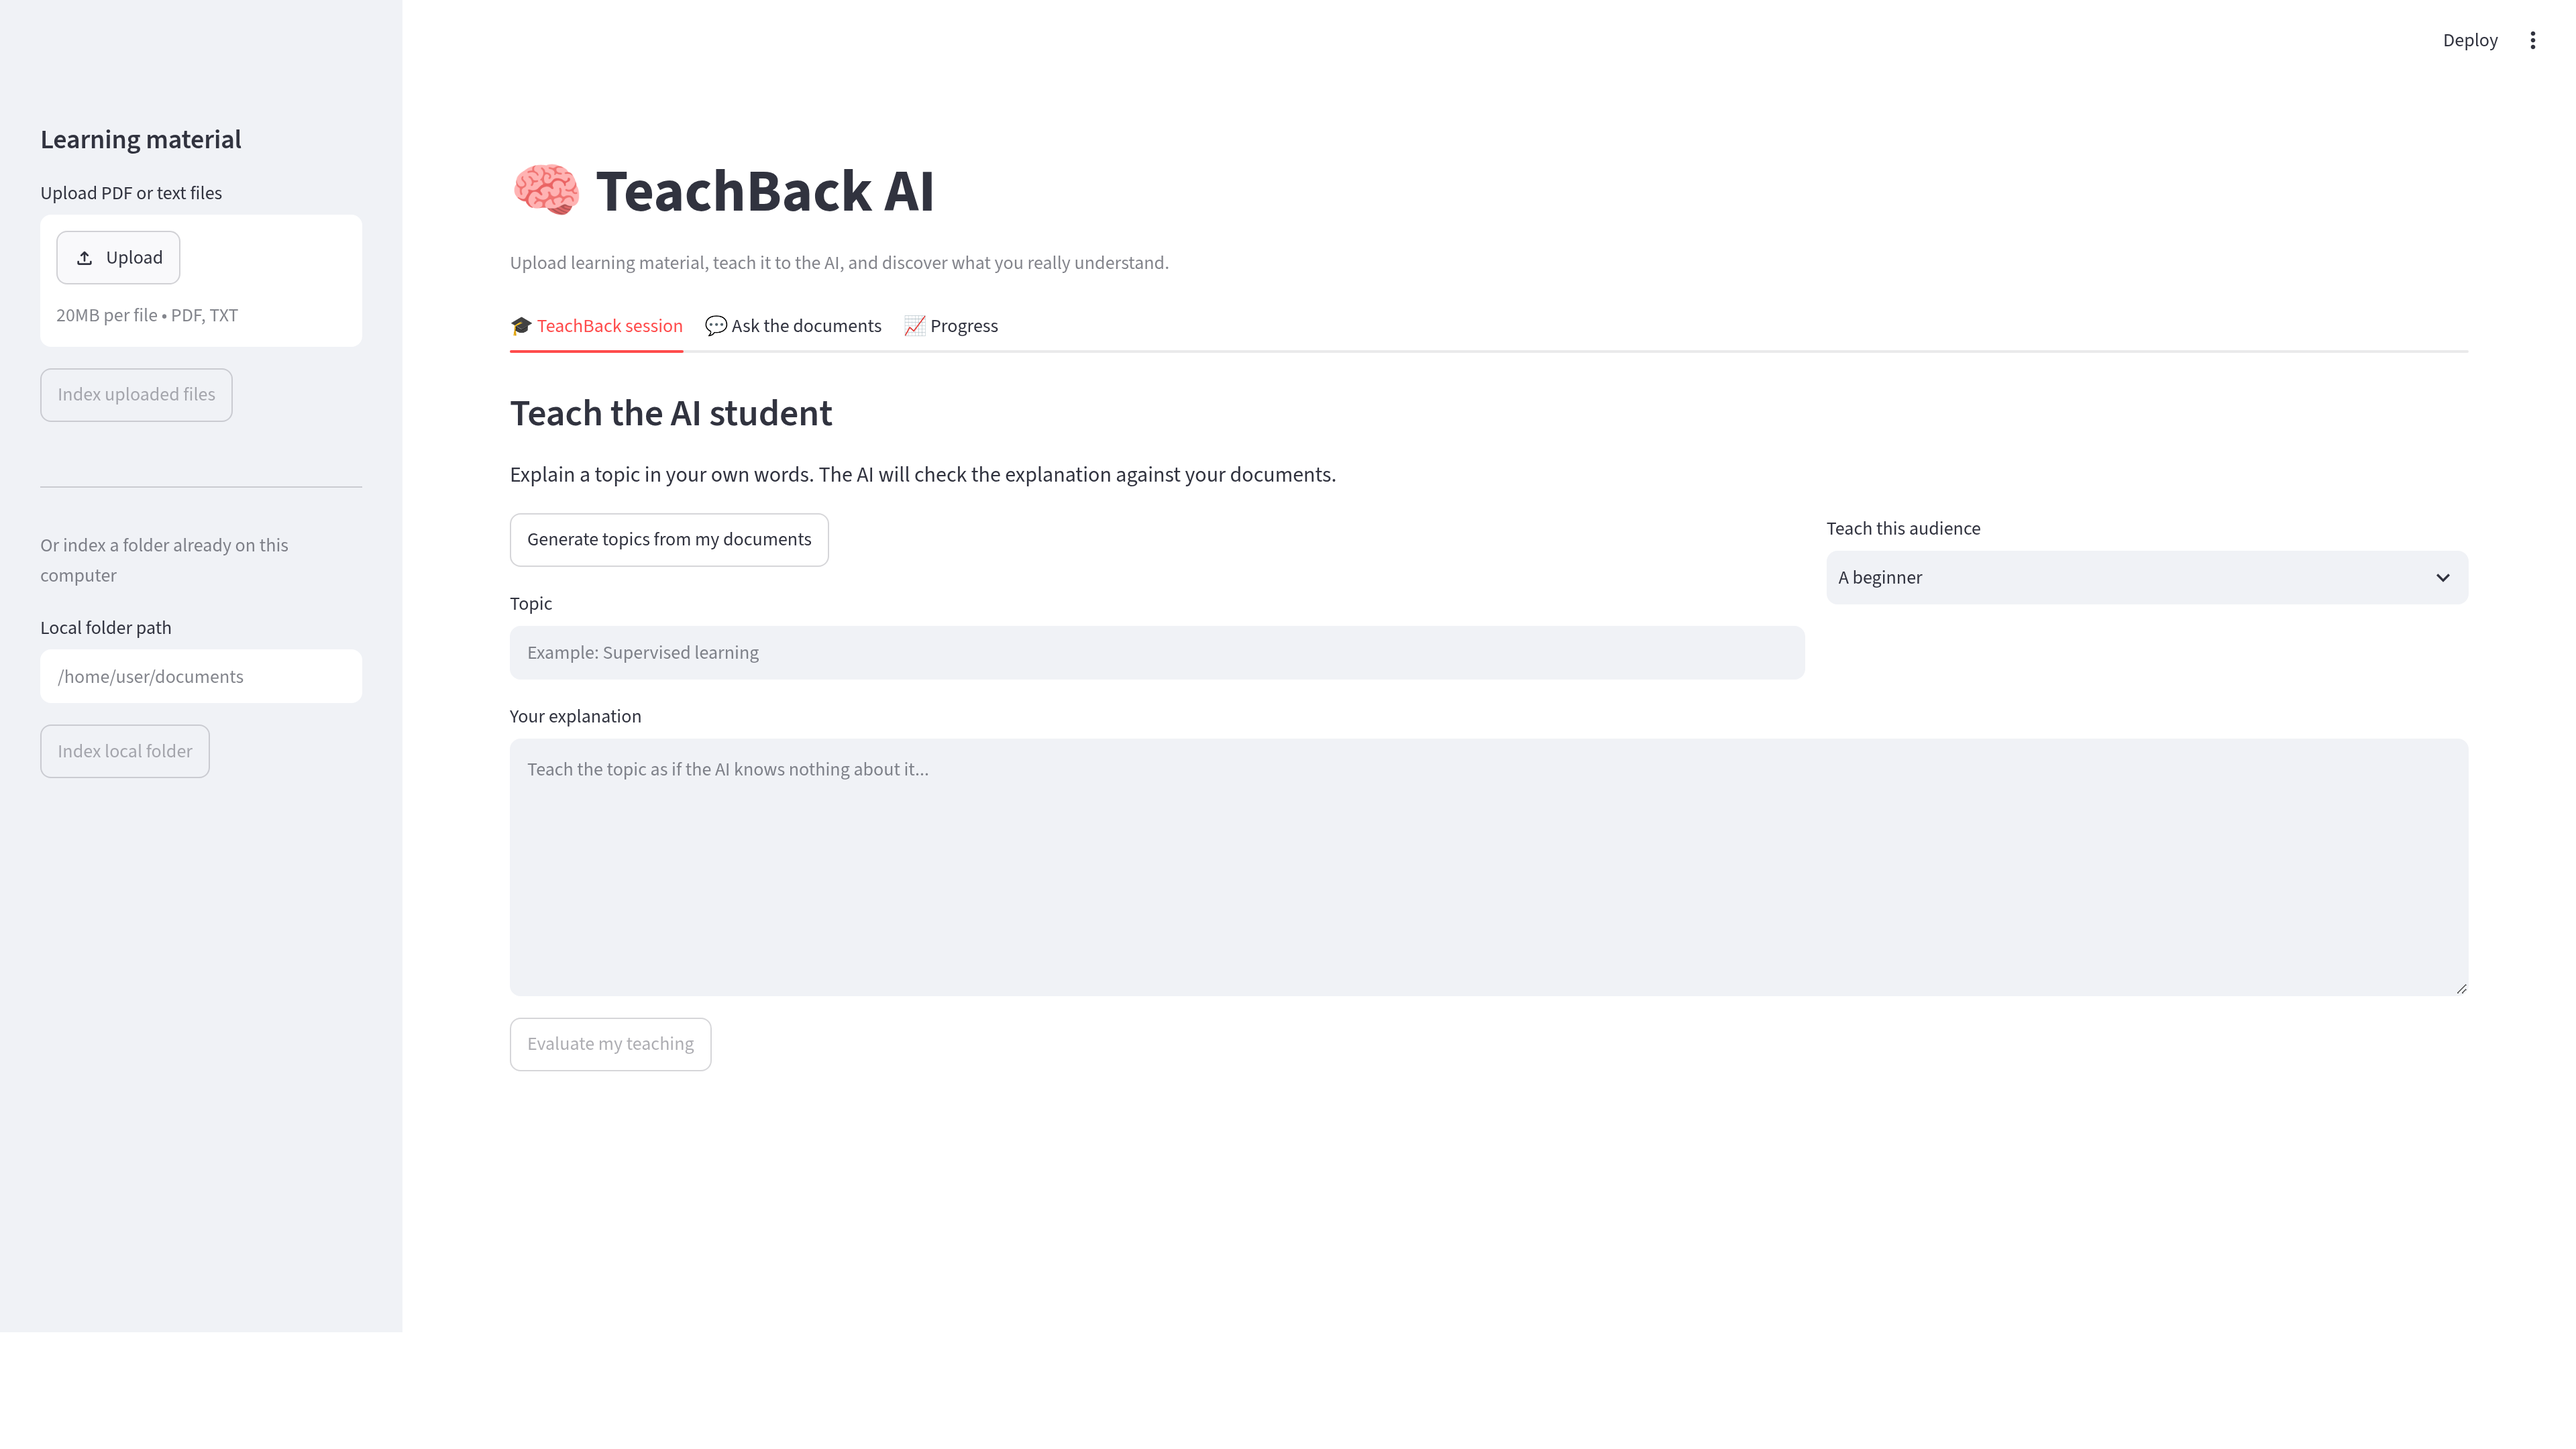
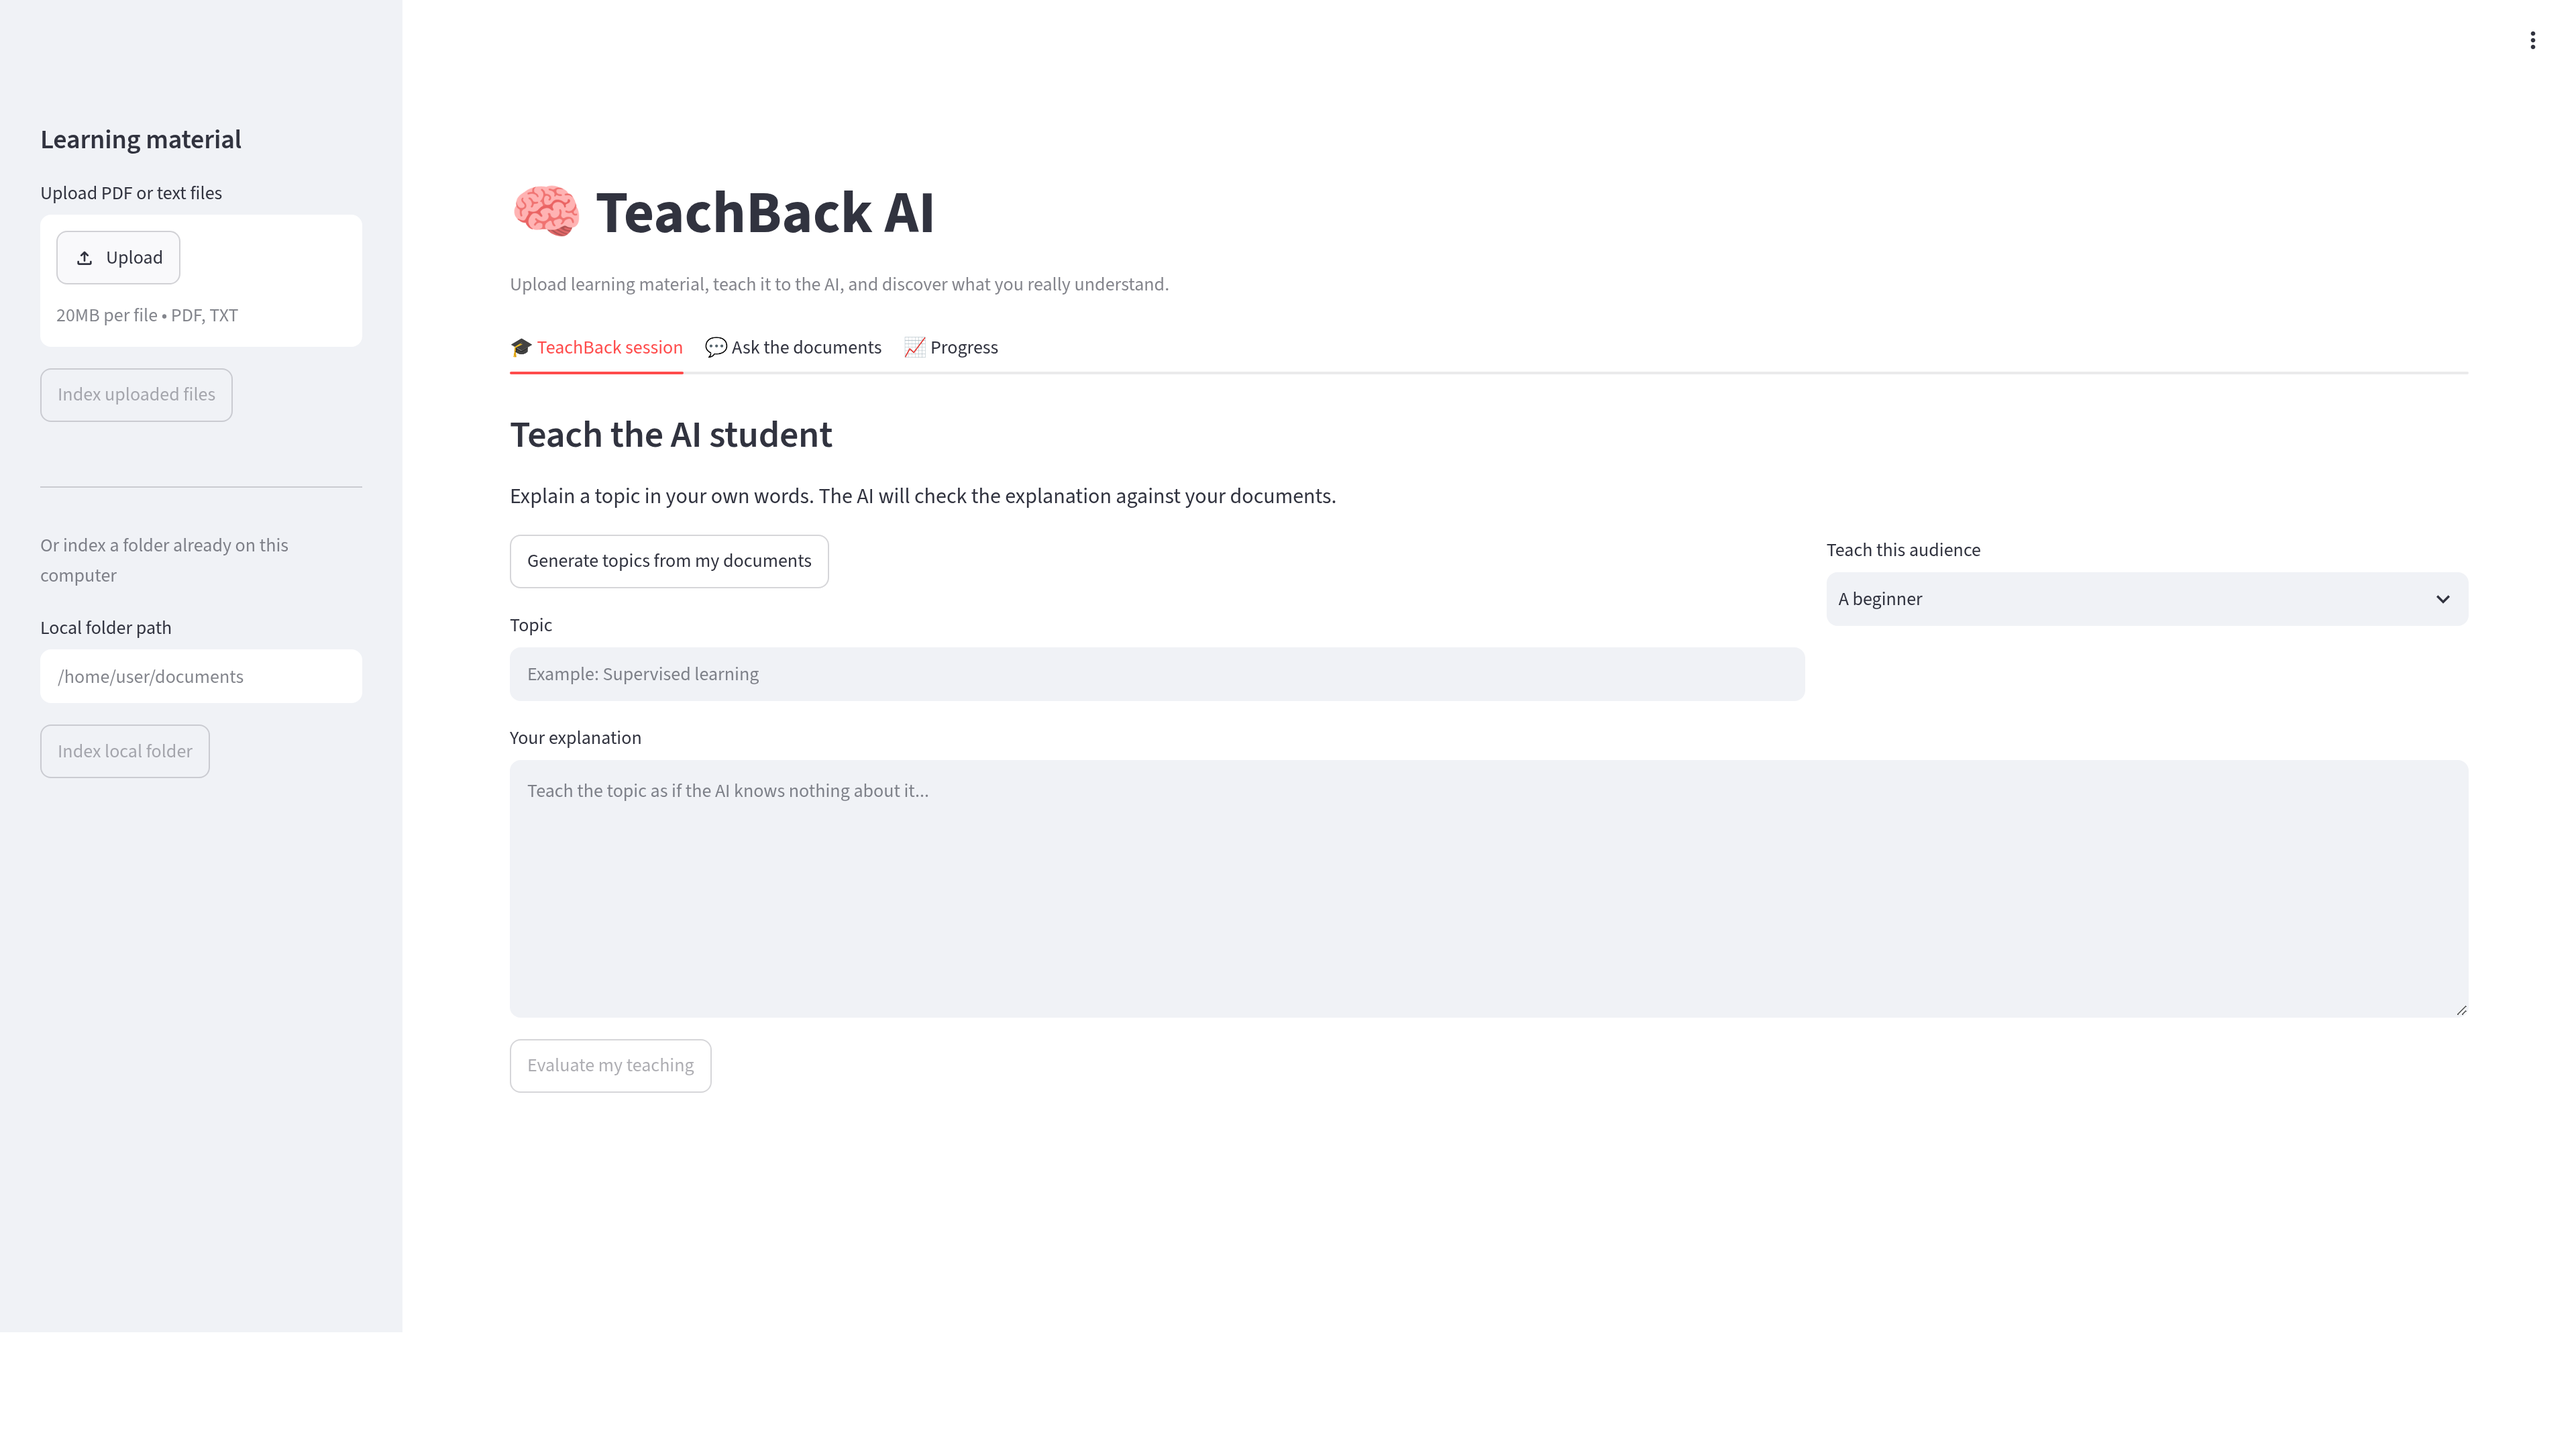
Hide Streamlit deploy button

diff --git a/frontend/app.py b/frontend/app.py
@@ -13,6 +13,10 @@ from api_client import (
 
 
 st.set_page_config(page_title="TeachBack AI", page_icon="🧠", layout="wide")
+st.markdown(
+    "<style>[data-testid='stAppDeployButton'] {display: none;}</style>",
+    unsafe_allow_html=True,
+)
 st.title("🧠 TeachBack AI")
 st.caption("Upload learning material, teach it to the AI, and discover what you really understand.")
 
